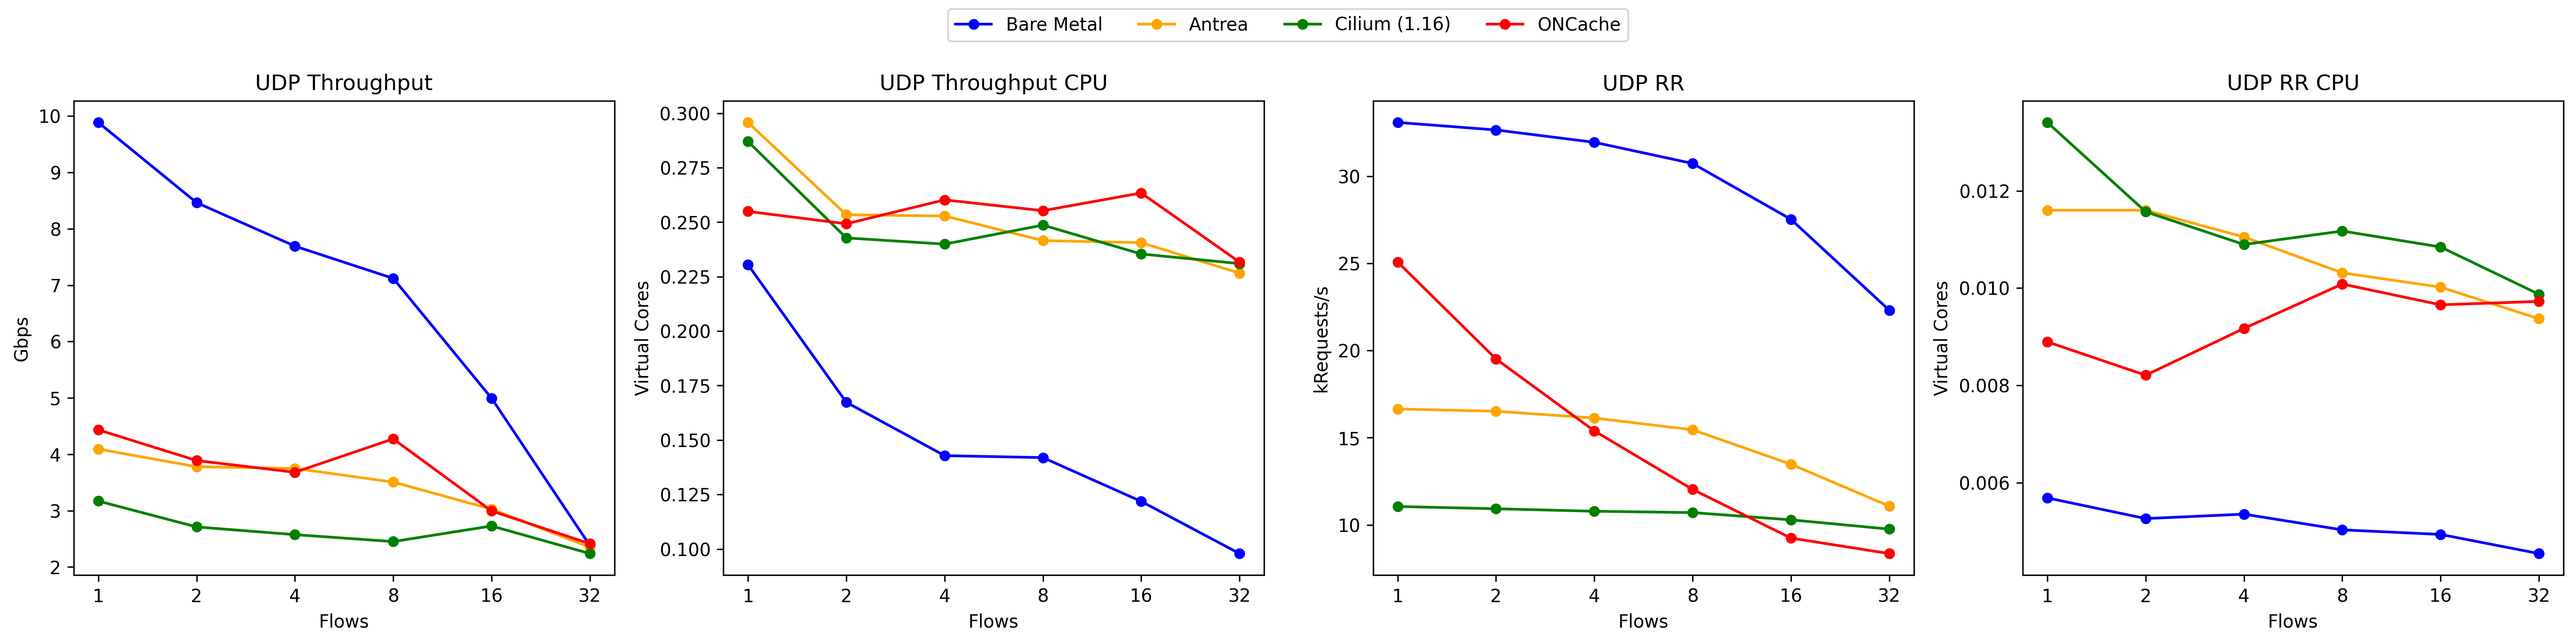
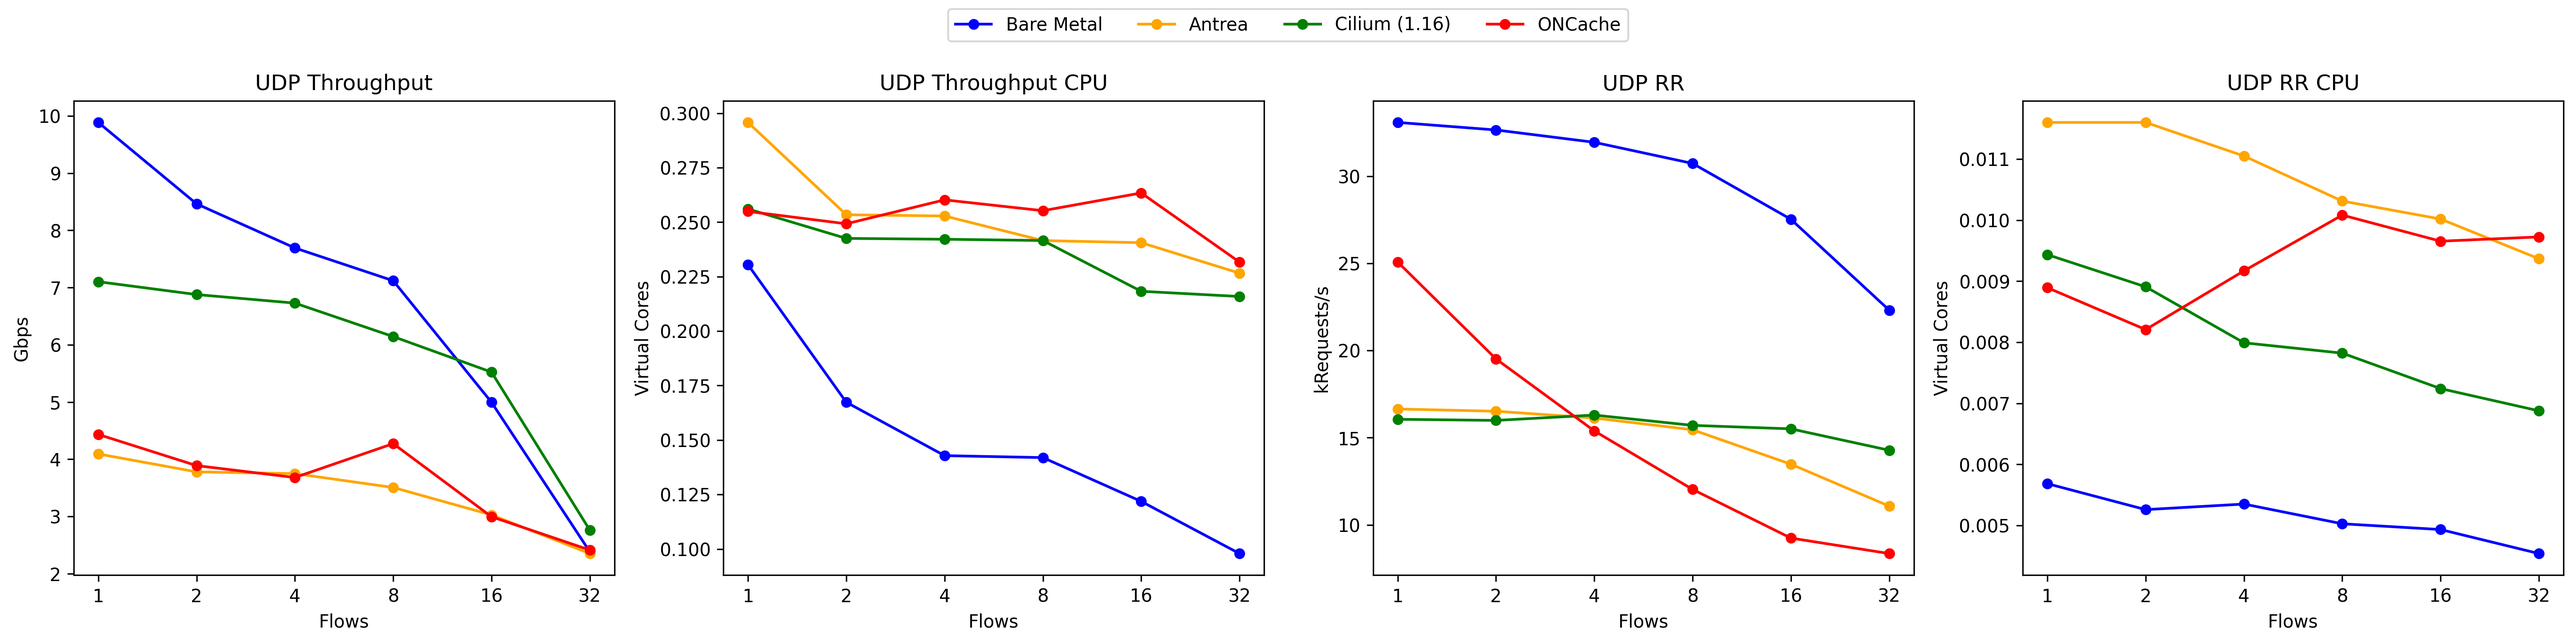
Update plots

diff --git a/plot.py b/plot.py
@@ -35,7 +35,7 @@ DATA_CONFIG: Dict[str, DataConfig] = {
         "color": "orange",
     },
     "k8s-cilium": {
-        "filename": "results/{}_k8s_output_cilium_1-16_cloudlab.csv",
+        "filename": "results/{}_k8s_output_cilium_1-16_tuned_cloudlab.csv",
         "label": "Cilium (1.16)",
         "color": "green",
     },
